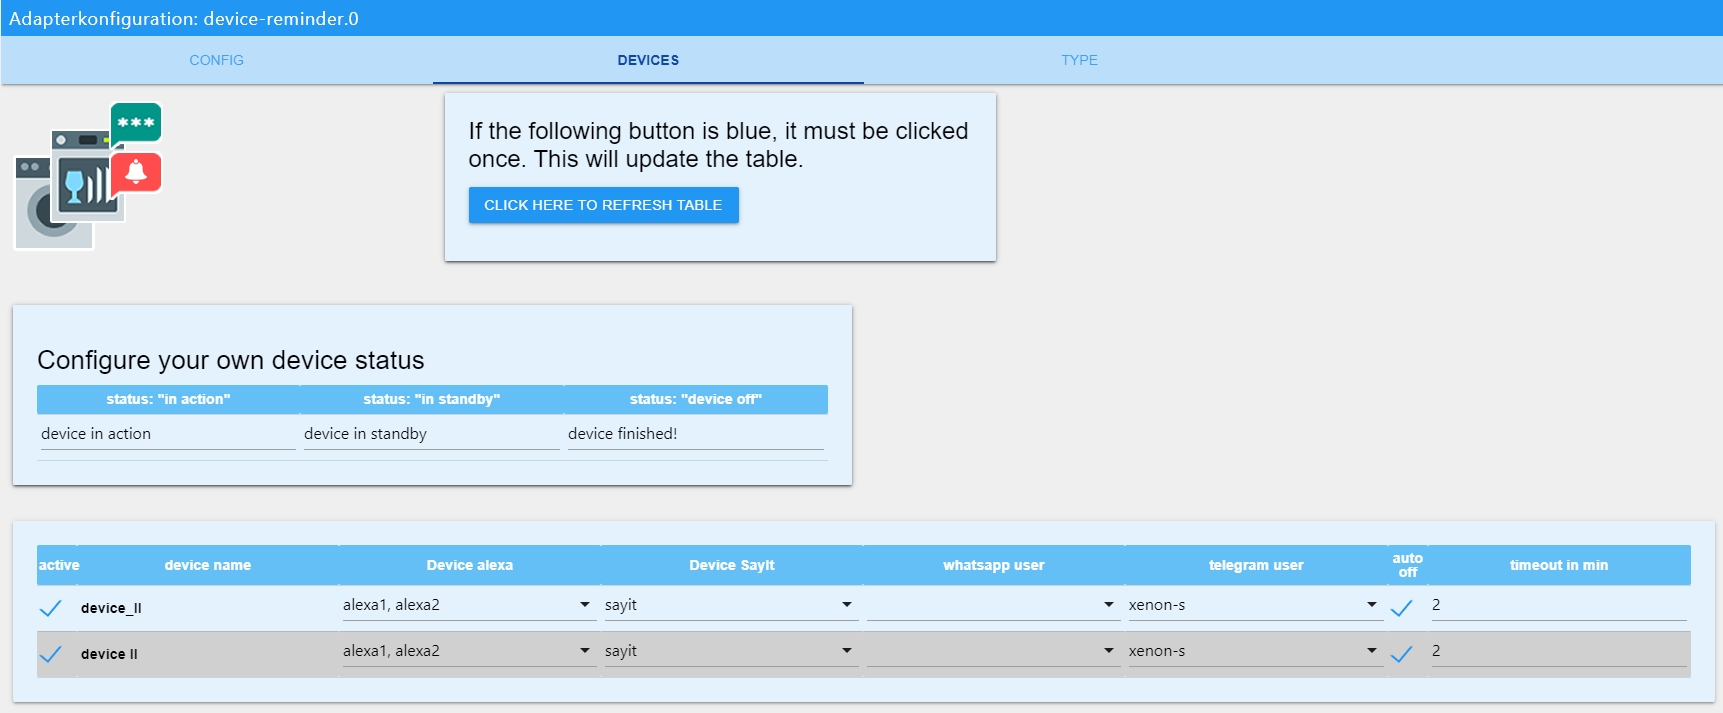
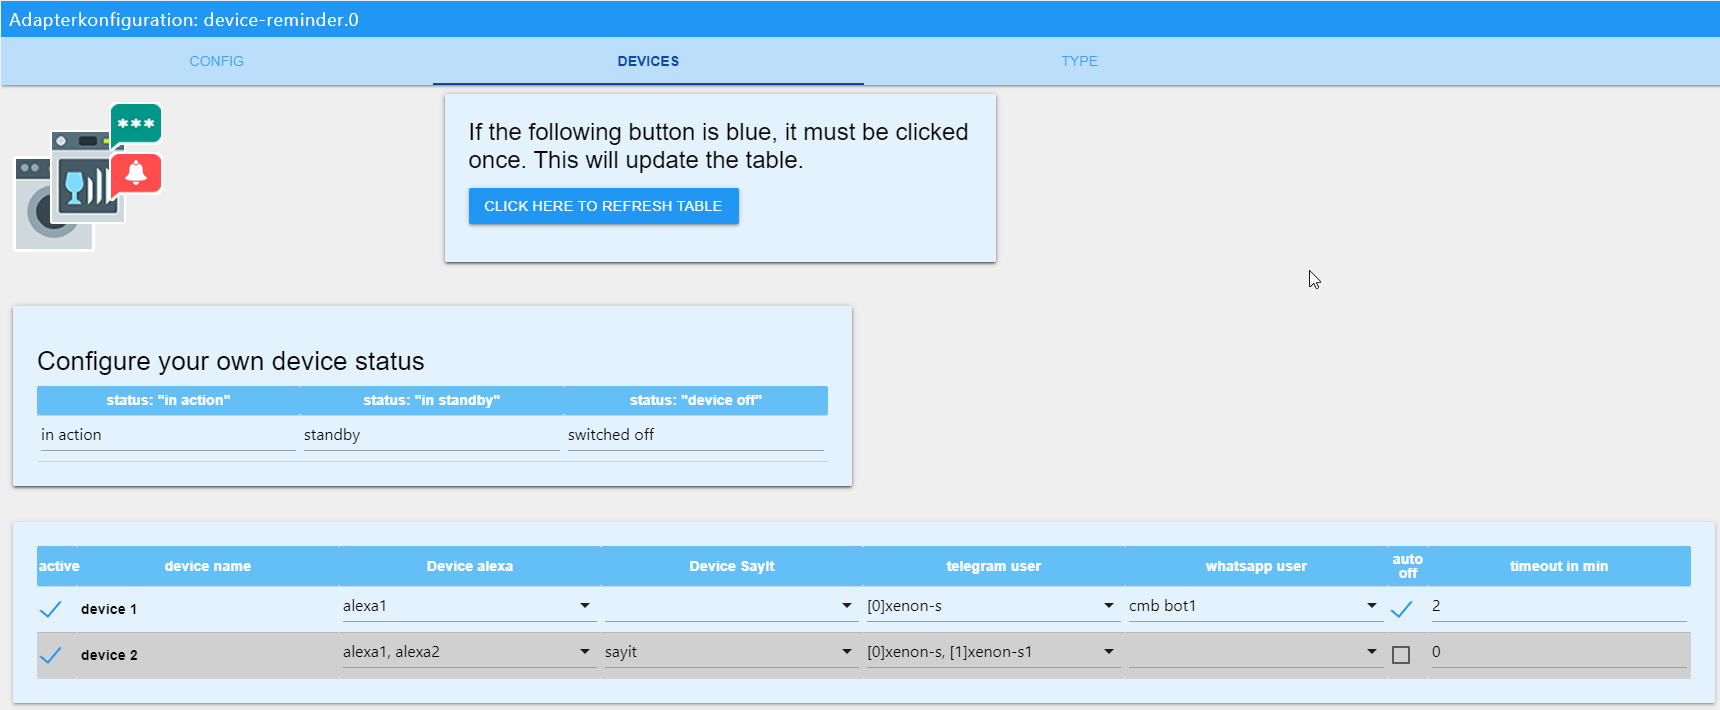
chore: release v0.7.1
fix telegram bug
Deleted incorrect version numbers in the io package

diff --git a/admin/index_m.html b/admin/index_m.html
@@ -43,6 +43,7 @@
         let devices = [];
         let whatsapp = [];
         let deviceTypes = [];
+        let telegramUserID = [];
         const firstName = []; // telegram firstname user
 
         let device_counter;
@@ -57,6 +58,7 @@
         let devicesFinal = [];
         let customTypeIDFinal = [];
         let defaultTypeIDFinal = [];
+        let telegramFinal = [];
 
         let curDevice = null
 
@@ -71,13 +73,16 @@
                 }
                 else {
                     let result = [];
+                    let instance = ``;
                     $.each(state.rows, (index, element) => {
                         result.push(element.value);
                     });
                     $.each(result, (index, element) => {
                         for (let i = 0; i < 10; i++) {
                             if (element._id === `system.adapter.telegram.${i}`) {
-                                arrTelegramUser.push(`telegram.${i}.communicate.users`);
+                                instance = `${i}`;
+                                let arr = {name: `telegram.${i}.communicate.users`, instance: instance};
+                                arrTelegramUser.push(arr);
                             };
                         };
                     });
@@ -88,16 +93,23 @@
 
         function readUserTelegram(arrTelegramUser) {
             // telegram auswahl erstellen
-            for (const i in arrTelegramUser) {
-                socket.emit('getState', arrTelegramUser[i], (err, state) => {
+            arrTelegramUser.forEach(i => {
+                console.log(i);
+                socket.emit('getState', i.name, (err, state) => {
                     if (state !== null || state !== undefined) {
                         if (state.val !== ``) {
                             $.each(JSON.parse(state.val), (index, element) => {
+                                let strTemP = ``;
                                 if (element.firstName !== undefined || element.firstName !== "" || element.firstName !== null) {
-                                    firstName.push({ name: element.firstName, id: element.firstName });
+                                    strTemP = `[${i.instance}]${element.firstName}`;
+                                    firstName.push({ name: strTemP, id: element.firstName });
+                                    telegramUserID[element.firstName] = { name: element.firstName, inst: i.instance, type: `first` };
                                 };
                                 if (element.userName !== undefined || element.userName !== "" || element.userName !== null) {
-                                    firstName.push({ name: element.userName, id: element.userName });
+                                    strTemP = `[${i.instance}]${element.userName}`;
+                                    firstName.push({ name: strTemP, id: element.userName });
+                                    telegramUserID[element.userName] = { name: element.userName, inst: i.instance, type: `user` };
+
                                 };
                             });
                             if (firstName.length <= 0) {
@@ -106,7 +118,8 @@
                         };
                     };
                 });
-            };
+            });
+            console.warn(telegramUserID);
         };
 
         function readUser() {
@@ -195,8 +208,9 @@
                     { type: 'label', name: "deviceName", value: curDevice.deviceName },
                     { type: 'multiple', data: alexa, name: "idAlexa", value: curDevice.idAlexa },
                     { type: 'multiple', data: sayit, name: "idsayit", value: curDevice.idsayit },
-                    { type: 'multiple', data: whatsapp, name: "idWhatsapp", value: curDevice.idWhatsapp },
                     { type: 'multiple', data: firstName, name: "idTelegram", value: curDevice.idTelegram },
+                    { type: 'multiple', data: whatsapp, name: "idWhatsapp", value: curDevice.idWhatsapp },
+                    // { type: 'multiple', data: firstName, name: "idTelegram", value: curDevice.idTelegram },
                     { type: 'checkbox', name: "autoOff", value: curDevice.autoOff },
                     { type: 'timer', name: "idTimer", value: parseInt(curDevice.idTimer) },
                     { type: 'id', name: "id", value: parseInt(deviceId) }
@@ -279,6 +293,7 @@
             obj.alexaID = table2values('alexaID');
             obj.sayitID = table2values('sayitID');
             obj.telegramID = table2values('telegramID');
+
             obj.whatsappID = table2values('whatsappID');
             obj.customTypeID = table2values('customTypeID');
             obj.defaultTypeID = table2values('defaultTypeID');
@@ -373,6 +388,8 @@
             customTypeID = settings.customTypeID || [];
             defaultTypeID = settings.defaultTypeID || [];
             device_final = settings.device_final || []; // output -> main.js
+            telegramFinal = settings.telegramFinal || [];
+
 
             // create own device status
             if (settings.valStates.length === 0) {
@@ -457,7 +474,9 @@
             obj.whatsappFinal = createArray(JSON.parse(JSON.stringify(obj.whatsappID)), "whatsapp");
             obj.customTypeIDFinal = createArray(JSON.parse(JSON.stringify(obj.customTypeID)), "typeID");
             obj.defaultTypeIDFinal = createArray(JSON.parse(JSON.stringify(obj.defaultTypeID)), "typeID");
-
+            // console.warn(telegramUserID);
+            // obj.telegramFinal = telegramUserID;
+            // console.warn(obj.telegramFinal);
 
             for (const i in obj.customTypeID) {
                 let bla;
@@ -542,6 +561,12 @@
                     for (const j in arr) {
                         if (obj[i].id == arr[j].id) {
                             if (obj[i].enabled) {
+
+                                let tele = [];
+                                obj[i].idTelegram.forEach(name =>{
+                                    tele.push(telegramUserID[name]);
+                                });
+
                                 objTemp[obj[i].id] = {
                                     name: arr[j].name,
                                     type: arr[j].type,
@@ -552,7 +577,7 @@
                                     alexa: obj[i].idAlexa,
                                     sayit: obj[i].idsayit,
                                     whatsapp: obj[i].idWhatsapp,
-                                    telegram: obj[i].idTelegram,
+                                    telegram: tele,
                                     autoOff: obj[i].autoOff,
                                     timer: obj[i].idTimer,
                                     id: obj[i].id
@@ -693,8 +718,9 @@
                                         <th class="header translate" data-name="deviceName">device name</th>
                                         <th class="header translate" data-name="idAlexa">Device alexa</th>
                                         <th class="header translate" data-name="idsayit">Device SayIt</th>
-                                        <th class="header translate" data-name="idWhatsapp">whatsapp user</th>
                                         <th class="header translate" data-name="idTelegram">telegram user</th>
+                                        <th class="header translate" data-name="idWhatsapp">whatsapp user</th>
+                                        <!-- <th class="header translate" data-name="idTelegram">telegram user</th> -->
                                         <th class="header translate" data-name="autoOff" style="width: 40px">auto
                                             off</th>
                                         <th class="header translate" data-name="idTimer">timeout in min</th>
@@ -805,7 +831,8 @@
                                         </th>
                                         <th data-name="path" data-type="OID" class="header translate">*alexa
                                             path
-                                            <br>"announcement"/"speak"</th>
+                                            <br>"announcement"/"speak"
+                                        </th>
                                         <th data-name="volume" style="width: 80px" data-type="number"
                                             class="header translate" data-default="50">volume <br> 0-100</th>
                                         <th data-name="timeMinHour" style="width: 80px" data-type="select"
@@ -815,7 +842,8 @@
                                         <th data-name="timeMinMin" style="width: 80px" data-type="select"
                                             class="header translate" data-default="00" data-options="00;15;30;45">
                                             time
-                                            <br>active min</th>
+                                            <br>active min
+                                        </th>
                                         <th data-name="timeMaxHour" style="width: 80px" data-type="select"
                                             class="header translate" data-default="23"
                                             data-options="0;1;2;3;4;5;6;7;8;9;10;11;12;13;14;15;16;17;18;19;20;21;22;23">
@@ -823,7 +851,8 @@
                                         <th data-name="timeMaxMin" style="width: 80px" data-type="select"
                                             class="header translate" data-default="59" data-options="00;15;30;45;59">
                                             time
-                                            <br>inactive min</th>
+                                            <br>inactive min
+                                        </th>
                                         <th data-buttons="delete" style="width: 80px" class="header translate">
                                             delete
                                         </th>
@@ -853,7 +882,8 @@
                                         <th data-name="name" data-type="text" class="header translate">*sayit name
                                         </th>
                                         <th data-name="path" data-type="OID" class="header translate">*sayit path
-                                            <br>"../text"</th>
+                                            <br>"../text"
+                                        </th>
                                         <th data-name="volume" style="width: 80px" data-type="number"
                                             class="header translate" data-default="50">volume <br> 0-100</th>
                                         <th data-name="timeMinHour" style="width: 80px" data-type="select"
@@ -862,7 +892,8 @@
                                             time <br>active hour</th>
                                         <th data-name="timeMinMin" style="width: 80px" data-type="select"
                                             class="header translate" data-default="00" data-options="00;15;30;45">time
-                                            <br>active min</th>
+                                            <br>active min
+                                        </th>
                                         <th data-name="timeMaxHour" style="width: 80px" data-type="select"
                                             class="header translate" data-default="23"
                                             data-options="0;1;2;3;4;5;6;7;8;9;10;11;12;13;14;15;16;17;18;19;20;21;22;23">
@@ -870,7 +901,8 @@
                                         <th data-name="timeMaxMin" style="width: 80px" data-type="select"
                                             class="header translate" data-default="59" data-options="00;15;30;45;59">
                                             time
-                                            <br>inactive min</th>
+                                            <br>inactive min
+                                        </th>
                                         <th data-buttons="delete" style="width: 80px" class="header translate">delete
                                         </th>
                                         <th data-name="id" style="width: 0px; display: none;" class="header translate">
@@ -901,7 +933,8 @@
                                         </th>
                                         <th data-name="path" data-type="OID" class="header translate">*whatsapp
                                             path
-                                            <br>"sendMessage"</th>
+                                            <br>"sendMessage"
+                                        </th>
                                         <th data-buttons="delete" style="width: 80px" class="header translate">
                                             delete
                                         </th>

diff --git a/main.js b/main.js
@@ -74,7 +74,7 @@ class deviceReminder extends utils.Adapter {
             stateOff = `switched off`;
         };
 
-        this.log.debug(`ARR INPUT devices ${JSON.stringify(objectInput)}`);
+        this.log.warn(`ARR INPUT devices ${JSON.stringify(objectInput)}`);
         this.log.debug(`ARR INPUT alexa ${JSON.stringify(alexaInput)}`);
         this.log.debug(`ARR INPUT sayit ${JSON.stringify(sayitInput)}`);
         this.log.debug(`ARR INPUT whatsapp ${JSON.stringify(whatsappInput)}`);
@@ -193,21 +193,12 @@ class deviceReminder extends utils.Adapter {
         };
     };
 
-
-
-    /**
-     * @param {{enabled: boolean; deviceIdName: string; deviceType: string; pathConsumption: string; pathSwitch: string; startText: string; endText: string; idTelegram: string; idAlexa: array; idWhatsapp: string; idsayit: array; autoOff: boolean; timer: boolean; idTimer: number}} obj
-     */
     async funcCreateObject(obj) {
         let objTemp = {};
 
-        /**
-         * @param {{enabled: boolean; deviceIdName: string; deviceType: string; pathConsumption: string; pathSwitch: string; startText: string; endText: string; idTelegram: string; idAlexa: array; idWhatsapp: string; idsayit: array; autoOff: boolean; timer: boolean; idTimer: number}} obj
-         */
         //Klasse erstellen
         class Geraet {
             /**
-             * @param {{enabled: boolean; deviceIdName: string; deviceType: string; pathConsumption: string; pathSwitch: string; startText: string; endText: string; idTelegram: string; idAlexa: array; idWhatsapp: string; idsayit: array; autoOff: boolean; timer: boolean; idTimer: number}} obj
              * @param {number} startValue
              * @param {number} endValue
              * @param {number} startCount
@@ -303,7 +294,7 @@ class deviceReminder extends utils.Adapter {
 
                 /*obj telegram erstellen*/
                 if (obj.telegram != `` && obj.telegram != undefined) {
-                    this.telegramUser = obj.telegram.toString();
+                    this.telegramUser = obj.telegram
                     this.telegram = true;
                 } else {
                     this.telegram = false;
@@ -339,9 +330,6 @@ class deviceReminder extends utils.Adapter {
         };
 
         // Objekte erstellen
-        /**
-         * @param {{ deviceName: string; deviceType: string; enabled: boolean; device.deviceIdName: string; pathConsumption: string; pathSwitch: string; startText: string; endText: string; idTelegram: string; idAlexa: string; idWhatsapp: string; idsayit: array; autoOff: boolean; }} obj
-         */
         //DPs erstellen
         const statusDevice = (`${obj.name}.Status`);
         const consumpLive = (`${obj.name}.live consumption`);
@@ -515,6 +503,7 @@ class deviceReminder extends utils.Adapter {
     async evaluatingInputValue(obj) {
 
         this.log.debug(`Berechnung gestartet: ${obj.deviceName}`);
+        this.log.warn(JSON.stringify(obj.telegramUser));
 
         switch (obj.started) {
             case true: {
@@ -827,11 +816,17 @@ class deviceReminder extends utils.Adapter {
         };
 
         if (obj.telegram) { // telegram nachricht versenden
-            this.log.debug(`telegram message wird ausgefuehrt`);
-            this.sendTo(`telegram`, `send`, {
-                text: msg,
-                user: obj.telegramUser
-            });
+            for (const i in obj.telegramUser) {
+                let user = ``;
+                let strTele = ``;
+                user = obj.telegramUser[i].name;
+                strTele = `telegram.${obj.telegramUser[i].inst}`;
+                this.log.debug(`telegram message wird ausgefuehrt`);
+                this.sendTo(strTele, `send`, {
+                    text: msg,
+                    user: user
+                });
+            };
         };
 
         if (obj.whatsapp) { // WhatsApp nachricht versenden

diff --git a/README_GER.md b/README_GER.md
@@ -117,7 +117,7 @@ Der Button wird nur aktiv, wenn neue Geräte eingefügt oder bestehende geänder
 <br>
 
 # Devices konfigurieren
-![configureDevices.png](admin/configureDevices.png)
+![configureDevices.png](admin/configureDevicesGER.png)
 
 ## configure your own device status
 
@@ -134,7 +134,7 @@ Hier werden nun, nachdem man auf den Button "**click here to reload**" auf der C
 - **Alexa devices**: alle zuvor erstellen Alexas werden hier aufgelistet und können per Klick hinzugefügt werden
 - **sayit ID**: alle zuvor erstellen sayit devices werden hier aufgelistet und können per Klick hinzugefügt werden
 - **whatsapp User**: alle zuvor angelegten whatsapp user werden hier aufgelistet und können per Klick hinzugefügt werden
-- **Telegram username**: Hier werden alle verfügbaren Telegram User angezeigt und können per Klick dem Gerät zugeordnet werden. 
+- **Telegram username**: Hier werden alle verfügbaren Telegram User angezeigt und können per Klick dem Gerät zugeordnet werden. In der [eckigen] Klammer wird die jeweilige Instanz angegeben.
 
     **Sollten keine Namen angezeigt werden:**
     Prüfen, ob der Eintrag unter "telegram.X.communicate.users" (das X steht für die jeweilige Instanz, zb 0) folgende Struktur enthält: "{"ID IN ZAHLEN":{"firstName":"User1"}}", wenn nicht kann diese einfach angepasst werden. Der Adapter sucht sowohl nach **firstName**, als auch nach **userName**. Man kann sich dann entscheiden, an welchen Namen gesendet werden soll. Es kann nur entweder der **firstName** oder der **userName** gewählt werden!

diff --git a/README.md b/README.md
@@ -133,7 +133,7 @@ After clicking on the button "**click here to reload**" on the Config page, all 
 - **Alexa devices**: all previously created alexas are listed here and can be added by clicking
 - **sayit ID**: all previously created sayit devices are listed here and can be added by clicking
 - **whatsapp User**: all previously created whatsapp users are listed here and can be added by clicking
-- **Telegram username**: Here all available Telegram Users are displayed and can be assigned to the device by clicking on them. 
+- **Telegram username**: Here all available Telegram Users are displayed and can be assigned to the device by clicking on them. The respective instance is indicated in the [square] brackets.
 
     **If no names should be displayed:**
     Check, if the entry under "telegram.X.communicate.users" (the X stands for the respective instance, e.g. 0) contains the following structure: "{"ID IN NUMBERS":{"firstName": "User1"}}", if not it can be easily adjusted. The adapter searches for both **firstName** and **userName**. You can decide which name you want to use. Only either the **firstName** or the **userName** can be selected!
@@ -189,6 +189,10 @@ To find out more about the function, simply read about it here at "**default dev
 	Placeholder for the next version (at the beginning of the line):
 	### __WORK IN PROGRESS__
 -->
+
+### 0.7.1 (2020-12-17)
+* (xenon-s) fix telegram bug
+* (xenon-s) Deleted incorrect version numbers in the io package
 
 ### 0.7.0 (2020-12-10)
 * (xenon-s) Data is now queried cyclically
